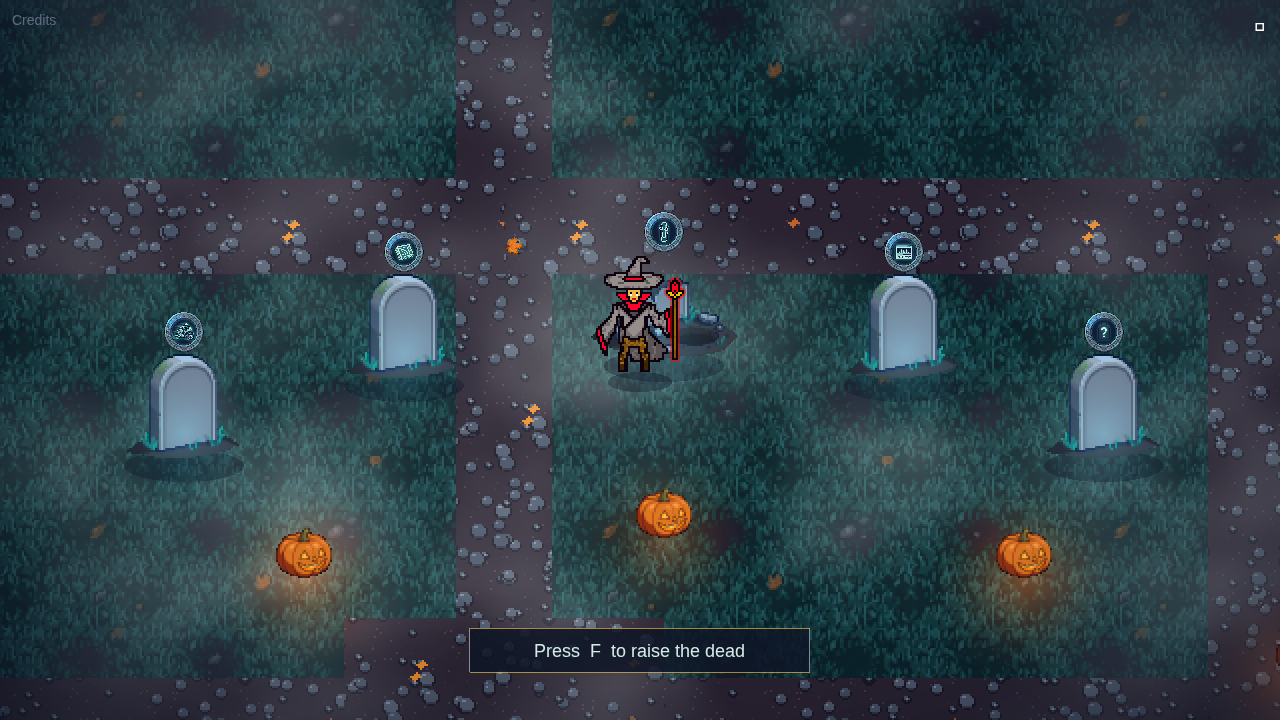
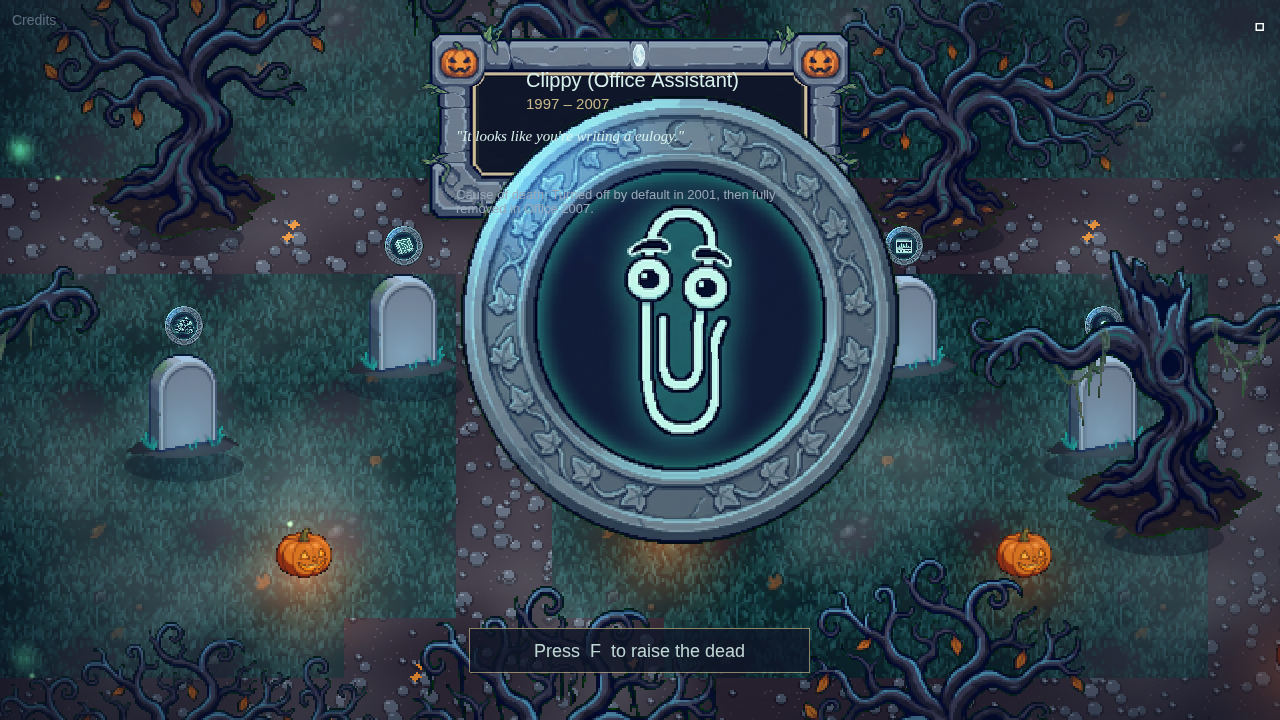
Fix plaque medallion size regression and hide plaque/prompt during ritual (Kiro)

diff --git a/src/scenes/GraveyardWorld.ts b/src/scenes/GraveyardWorld.ts
@@ -46,6 +46,7 @@ export class GraveyardWorld extends Phaser.Scene {
   private activeGrave: GraveEntry | null = null;
   private lastProxGraveId: string | null = null;
   private promptPlayedFor: string | null = null;
+  private ritualActive = false;
 
   // Audio
   private audio!: AudioManager;
@@ -446,6 +447,7 @@ export class GraveyardWorld extends Phaser.Scene {
 
     // Freeze wizard input
     this.input.keyboard!.disableGlobalCapture();
+    this.ritualActive = true;
 
     this.scene.launch('ResurrectionRitual', ritualData);
     this.scene.pause('UIScene');
@@ -476,6 +478,8 @@ export class GraveyardWorld extends Phaser.Scene {
   }
 
   private moveWizard(delta: number): void {
+    if (this.ritualActive) return;
+
     const speed = WALK_SPEED;
     let dx = 0;
     let dy = 0;
@@ -538,6 +542,8 @@ export class GraveyardWorld extends Phaser.Scene {
   }
 
   private checkProximity(): void {
+    if (this.ritualActive) return;
+
     let closest: GraveEntry | null = null;
     let closestDist = Infinity;
 
@@ -633,6 +639,7 @@ export class GraveyardWorld extends Phaser.Scene {
   // ─── Called when ResurrectionRitual stops and scene resumes ──────────────
 
   private onResume(): void {
+    this.ritualActive = false;
     this.input.keyboard!.enableGlobalCapture();
     this.audio.restoreMusic();
     this.audio.restoreAmbient();

diff --git a/src/scenes/UIScene.ts b/src/scenes/UIScene.ts
@@ -204,6 +204,7 @@ export class UIScene extends Phaser.Scene {
       const medalKey = medallionKeyMap[grave.id];
       if (medalKey) {
         medallion.setTexture(medalKey);
+        medallion.setDisplaySize(56, 56);
       }
     } else {
       medallion.setVisible(false);
@@ -226,11 +227,7 @@ export class UIScene extends Phaser.Scene {
   public hidePlaque(): void {
     if (!this.plaqueVisible) return;
     this.plaqueVisible = false;
-    this.tweens.add({
-      targets: this.plaque,
-      alpha: 0,
-      duration: 200,
-      onComplete: () => this.plaque.setVisible(false),
-    });
+    this.plaque.setVisible(false);
+    this.hint.hide();
   }
 }
